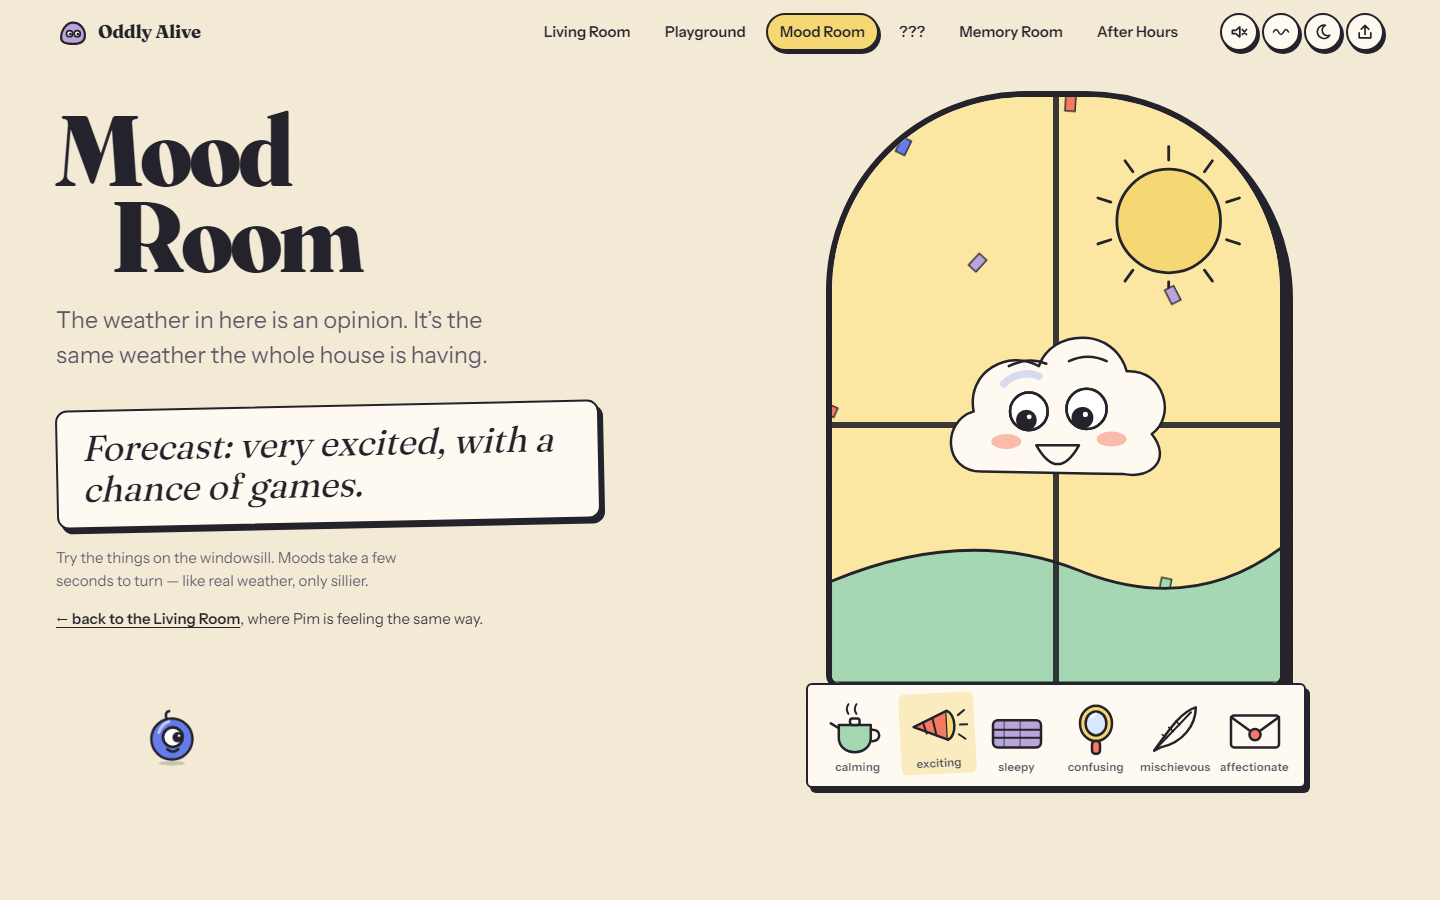
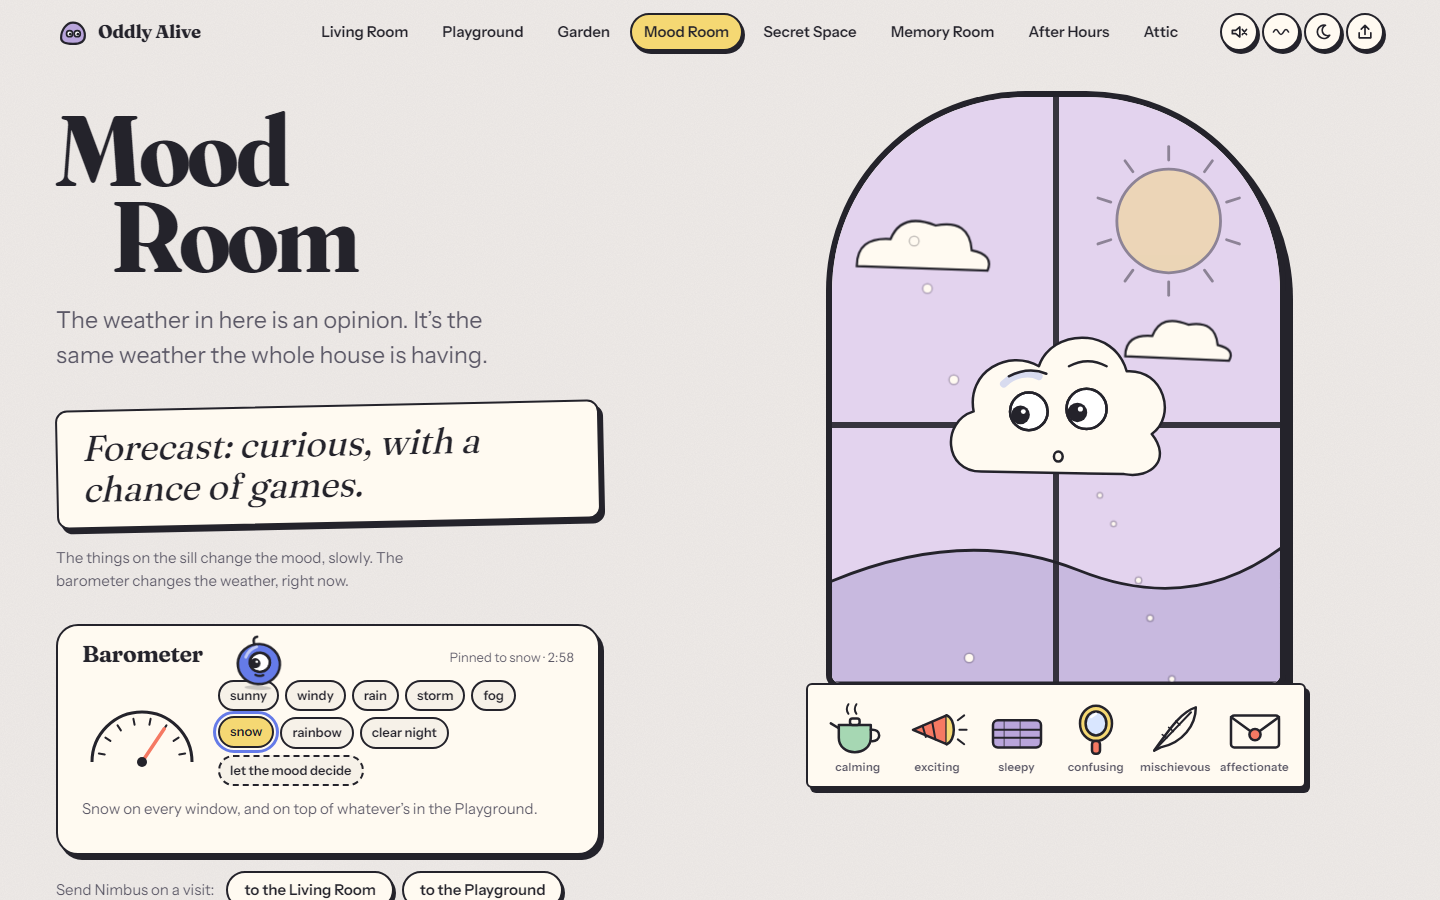
docs: Phase 2 release notes, screenshots and catalog
README describes eight rooms with new screenshots (Playground with Bip,
the Mood Room barometer, Garden, Attic), more things to try and the
keepsakes memory now holds. ARCHITECTURE, ROADMAP, DECISIONS (17–23),
PRODUCT_VISION and INTERACTION_CATALOG (INT-111 … INT-136) are updated.
The Mood Room shows snow under a hazy sky rather than full sun.

diff --git a/src/rooms/MoodRoom/MoodRoom.tsx b/src/rooms/MoodRoom/MoodRoom.tsx
@@ -31,7 +31,7 @@ const SCENERY: Record<HouseWeather, Mood> = {
   rain: 'annoyed',
   storm: 'annoyed',
   fog: 'shy',
-  snow: 'neutral',
+  snow: 'shy',
   rainbow: 'confused',
   night: 'sleepy',
 };

diff --git a/README.md b/README.md
@@ -4,14 +4,16 @@
 
 ![The Living Room](docs/screenshots/living-room.png)
 
-Oddly Alive is an interactive house of six rooms. The whole site behaves like
+Oddly Alive is an interactive house of eight rooms. The whole site behaves like
 one character with moods. It notices what you do on the page and answers
 through behavior:
 - title letters lean away from your pointer
 - a shy blob looks away if you stare
 - a lamp sulks if you flick it too often
 - a fern grows a leaf for every secret you find
-- the weather in the Mood Room *is* the house's mood
+- the weather follows the house's mood, and every room feels it
+- a robot next door plays volleyball with whatever you throw over the fence
+- Great-Aunt Pim left a letter in every room
 
 There is no goal, score, tutorial or chatbot. The activity is the website itself.
 
@@ -22,11 +24,13 @@ There is no goal, score, tutorial or chatbot. The activity is the website itself
 | | |
 | --- | --- |
 | **Living Room**: Pim the shy blob, Dot the follower, Lumen the lamp, Tick the clock, Ferdinand the fern, a dust bunny and a do-not-press button. Scroll down for how the house works, and a creaky floorboard. | ![Living Room on a phone](docs/screenshots/mobile-living-room.png) |
-| **Playground**: Matter.js shapes with faces. They have momentum, stack and collide, and the room opens with a ramp-and-domino chain reaction. | ![Playground](docs/screenshots/playground.png) |
-| **Mood Room**: a tall window whose weather is the shared mood. Six objects on the sill (tea, a party horn, a blanket, a mirror, a feather, a kind letter) nudge the whole house. | ![Mood Room](docs/screenshots/mood-room.png) |
+| **Playground**: Matter.js shapes with faces. They have momentum, stack and collide, and the room opens with a ramp-and-domino chain reaction. Throw something hard enough and it leaves the tray: over the fence, Bip runs under it and volleys it back, so you can keep a rally going. Field Notes keep score. | ![Playground](docs/screenshots/playground.png) |
+| **Mood Room**: a tall window onto the house weather. Six objects on the sill nudge the mood; a barometer pins the weather for a few minutes (rain on every window, wind in the Playground, snow on the shapes); Nimbus keeps an almanac and can be sent to rain on another room. | ![Mood Room](docs/screenshots/mood-room.png) |
 | **Secret Space**: a dark cabinet lit by a torch that follows your pointer. It shows every secret, with optional hints, plus a chest, a token puzzle and invisible ink. | ![Secret Space](docs/screenshots/secret-space.png) |
 | **Memory Room**: everything the house remembers about this browser: visits, secrets, favourite things to poke and a silly nickname. It also has Reset Session, Reset World and Forget me. | ![Memory Room](docs/screenshots/memory-room.png) |
 | **After Hours**: a rooftop at night with a moon that's too close, stars you can connect, a radio, and a porch light that attracts a moth. A manual night switch themes the whole house. | ![After Hours](docs/screenshots/after-hours.png) |
+| **Garden**: Great-Aunt Pim's seed tin and six plots. Plants grow in real time, a little while you're away, and the weather helps or stops them. Flowers end up in a vase in the Living Room; radishes end up in the Playground. | ![Garden](docs/screenshots/garden.png) |
+| **Attic**: up a ladder from the Living Room. Boxes nobody sorted, Marguerite the dress form and her hats, a gramophone, the House Diary (written from your own visits) and Great-Aunt Pim's trunk of letters. | ![Attic](docs/screenshots/attic.png) |
 
 You can share any scene as a link or as a generated postcard:
 
@@ -40,8 +44,12 @@ You can share any scene as a link or as a generated postcard:
 - Type `hello`, `wonk` or `dance` anywhere.
 - In the Mood Room, pour tea and then unfold the blanket.
 - Find something in one room, then go back to the Living Room and listen.
+- Throw a pebble hard over the fence in the Playground. Catch it when it comes back.
+- Pin rain in the Mood Room, then visit the Garden. Pin a rainbow and hold up the mirror.
+- Plant a moonflower and come back after dark.
+- Look up in the Living Room once you have found a few things.
 
-There are 21 secrets. None of them is required for anything.
+There are 43 secrets and eight letters. None of them is required for anything.
 
 ## How it works
 
@@ -86,6 +94,8 @@ More detail: [`ARCHITECTURE.md`](ARCHITECTURE.md), [`DECISIONS.md`](DECISIONS.md
   - per-object counts
   - a trust number
   - a few settings
+  - keepsakes: the garden, letters found, weather seen, personal bests, and a
+    short diary (40 lines at most) with the date of a few big moments
 
   The Memory Room shows the raw data and can delete it. Memory can also be
   switched off.

diff --git a/INTERACTION_CATALOG.md b/INTERACTION_CATALOG.md
@@ -17,7 +17,7 @@ its cooldown and priority. It also says what it changes: actor commands,
 from `run`; the scheduler calls it on finish, cancel and room exit. Keyboard
 or touch alternatives are noted where they differ from the pointer.
 
-**Totals:** 110 of 110 are built: 55 `verified`, 55 `implemented`, 0 `deferred`.
+**Totals:** 110 of 110 are built: 55 `verified`, 55 `implemented`, 0 `deferred`. Phase 2 adds INT-111 … INT-136 (24 `verified`, 2 `implemented`).
 That is 125 registered behaviors in all, plus presentation-level reactions
 in components. Several ideas are deliberately small, e.g. INT-033. The
 "Notes" column calls out anything that is lighter than its name suggests.
@@ -183,3 +183,36 @@ Paths are relative to `src/`. `T:` lists the tests.
 | INT-108 | Reproducible scene seed | verified | `app/share.ts` `sceneVariant` | T: `share.test.ts`, E2E |
 | INT-109 | Share a visual arrangement | verified | `rooms/Playground/share.ts` | T: `Playground.test.tsx` |
 | INT-110 | Copyable scene link, no accounts | verified | `components/ShareSheet.tsx` | T: E2E share-link test |
+
+## K. Phase 2: weather, garden, attic, letters, volleyball
+
+Added in Phase 2 (`PHASE_2_PLAN.md`). Same legend as above.
+
+| ID | Behavior | Status | Where | Evidence / notes |
+| --- | --- | --- | --- | --- |
+| INT-111 | Hard throws leave the tray (count drops) | verified | `Playground.tsx` `throwOut`, `flight.ts` | T: `physics.test.ts`, `flight.test.ts`, E2E volleyball |
+| INT-112 | Bip runs under a throw and volleys it back | verified | `NextDoor.tsx`, `flight.ts` `predictHit` | T: `flight.test.ts`, E2E volleyball |
+| INT-113 | Rally: catch the return before it lands | implemented | `Playground.tsx` `checkRallyBall`, floaty ball | Rally of 2 reached in automated runs |
+| INT-114 | Throw straight up still arcs over to Bip | verified | `flight.ts` `throwToYard` | T: `flight.test.ts` |
+| INT-115 | House weather follows mood or a pin | verified | `engine/weather.ts`, `app/weatherSync.ts` | T: `weather.test.ts`, `weatherSync.test.tsx` |
+| INT-116 | Barometer pins weather; Nimbus refuses once when grumpy | verified | `MoodRoom/Barometer.tsx` | T: `MoodRoom.test.tsx` |
+| INT-117 | Almanac collects every weather seen | verified | `MoodRoom/Almanac.tsx`, keepsakes | T: `MoodRoom.test.tsx` |
+| INT-118 | Send Nimbus to rain on another room | verified | `components/NimbusVisitor.tsx` | T: `MoodRoom.test.tsx` |
+| INT-119 | Weather in the Playground (wind, slippery rain, snow caps, thunder) | verified | `physics.ts` `setEnvironment` | T: `physics.test.ts` |
+| INT-120 | Living Room window shows the weather; cast remarks | implemented | `LivingRoom/HouseWindow.tsx`, `living.weather.remark` | |
+| INT-121 | Garden grows in real time and while away | verified | `Garden/growth.ts` | T: `growth.test.ts`, `Garden.test.tsx` |
+| INT-122 | Moonflower only grows at night | verified | `growth.ts` `rate` | T: `growth.test.ts` |
+| INT-123 | Flowers go to the Living Room vase | verified | `Garden.tsx`, `HouseWindow.tsx` | T: `Garden.test.tsx`, `combos.test.ts` |
+| INT-124 | Radishes travel to the Playground | verified | `Garden.tsx`, Playground spawn | T: `Garden.test.tsx`, `combos.test.ts` |
+| INT-125 | Ceiling cord drops the attic ladder | verified | `LivingRoom/PullCord.tsx` | T: `Attic.test.tsx` |
+| INT-126 | Boxes, hats and Marguerite | verified | `Attic/Attic.tsx`, `Marguerite.tsx` | T: `Attic.test.tsx` |
+| INT-127 | House Diary written from this browser | verified | `Attic/Diary.tsx`, keepsakes `diary` | T: `Attic.test.tsx`, `keepsakes.test.ts` |
+| INT-128 | Gramophone waltz (opt-in sound) | verified | `engine/audio.ts` `waltz` | T: `Attic.test.tsx` (discovery) |
+| INT-129 | Eight letters, one per room | verified | `content/letters.ts`, `app/letters.ts` | T: `letters.test.tsx` |
+| INT-130 | Trunk reads letters, hints at missing ones | verified | `Attic/Trunk.tsx` | T: `letters.test.tsx` |
+| INT-131 | Rooftop finale after all letters | verified | `AfterHours/RooftopParty.tsx` | T: `letters.test.tsx` |
+| INT-132 | Visit-shaped discoveries (night owl, tourist, homebody) | verified | `app/watchers.ts` | T: `watchers.test.ts` |
+| INT-133 | Patient / Gentle Hands | verified | `character.ts` `idle.long`, `living.ts` `pim.gentle` | T: `world.test.ts`, `SecretSpace.test.tsx` |
+| INT-134 | Layered hints, cabinet by room | verified | `content/secrets.ts` `after`, `SecretSpace.tsx` | T: `SecretSpace.test.tsx` |
+| INT-135 | Rooms notice each other (vase, radish, Dot on weather) | verified | `behaviors/combos.ts` | T: `combos.test.ts` |
+| INT-136 | Copy lint keeps the voice human | verified | `content/__tests__/copy.test.ts`, `VOICE.md` | T: `copy.test.ts` |

diff --git a/PHASE_2_PLAN.md b/PHASE_2_PLAN.md
@@ -312,6 +312,6 @@ cross-room, Marguerite's 4th hat, Tourist/Homebody discoveries.
 | 7 | done | Garden: `growth.ts` (pure, real-time + away growth, weather rates, moonflower night-only), seed tin (5 packets in Great-Aunt Pim’s hand) + watering can, 6 plots in 3 beds, SVG stages, Bip over the fence, Inch commuting. Harvest: flowers → Living Room windowsill vase (persisted), radishes → Playground (new `radish` shape, appended to SHAPE_KINDS). Discoveries: Green Thumb, Came Back For It, Night Shift, Full Bloom, Root Vegetable Sports. Snails cut. |
 | 8 | done | Living Room pull-cord (after 3 discoveries or 5 min; never a gate) drops a ladder → Attic. Attic: dim warm room (dark nav), round window with house weather, six boxes (4 hats, shoe, dust bunnies), Marguerite the dress form + hats (persisted), House Diary (paged, human dates, honest note), gramophone (original synth waltz), trunk placeholder for letters. Discoveries: Up the Ladder, Dress Rehearsal, Needle Drop, Dear Diary. Cross-room hum cut. |
 | 9 | done | Eight letters in Great-Aunt Pim’s voice (`content/letters.ts`), `app/letters.ts` findLetter (keepsake, diary, toast, discoveries). Triggers: portrait after the keyhole; rally of 5; mirror under a rainbow; second look in the chest; third visit (Memory Room); constellation with the radio on; moonflower harvest; last attic box. Trunk reads them and hints at missing ones; LetterToast (bottom right). Finale: rooftop party in After Hours + Great-Aunt smiles for good in the Living Room. Discoveries: Correspondent, The Whole Story, Family Reunion. |
-| 10 | done | Six discoveries: Patient (Living Room nods off), Gentle Hands (10 hovers, no pokes → Pim tells a secret), Night Owl (00–04 local), Tourist (every known room in 90 s), Homebody (5 min in one room), Puddle Jumper (volley in rain). `app/watchers.ts`. Layered hints (`after`) on 11 deeper secrets; cabinet grouped into one shelf per room with counts. Living letter now needs the key found (it was stepping on the keyhole moment). Found and fixed via e2e: Bip could miss on slow frames (hit check now per 16 ms slice) and could never reach a ball resting by the net. 45 secrets total. |
+| 10 | done | Six discoveries: Patient (Living Room nods off), Gentle Hands (10 hovers, no pokes → Pim tells a secret), Night Owl (00–04 local), Tourist (every known room in 90 s), Homebody (5 min in one room), Puddle Jumper (volley in rain). `app/watchers.ts`. Layered hints (`after`) on 11 deeper secrets; cabinet grouped into one shelf per room with counts. Living letter now needs the key found (it was stepping on the keyhole moment). Found and fixed via e2e: Bip could miss on slow frames (hit check now per 16 ms slice) and could never reach a ball resting by the net. 43 secrets total. |
 | 11 | done | Glue: garden flowers noticed in the Living Room (Ferdinand + Pim, via `living.vaseNew`), radishes greeted by Dot in the Playground, Dot’s weather opinions (Playground, Mood Room); existing gossip already covers discoveries in the new rooms. Reduced motion: global rule + per-component rules cover every new animation. Follow-up noted: Playground.tsx is ~840 lines; extracting the volleyball loop into a hook is a safe next refactor (not done here to avoid churn before release). |
-| 12 | todo | |
+| 12 | done | Docs: README (eight rooms, new screenshots for Playground, Mood Room, Garden, Attic; things to try; privacy lists keepsakes), ARCHITECTURE (Phase 2 modules), ROADMAP (Phase 2 table), DECISIONS 17–23, INTERACTION_CATALOG INT-111…136, PRODUCT_VISION room count. Final: 208 unit tests, 43 e2e (desktop + mobile, a11y, perf) green; production build OK. Not pushed: `phase-2` is ready for the owner to review and merge. |

diff --git a/DECISIONS.md b/DECISIONS.md
@@ -46,3 +46,30 @@ Short architecture/design decision log. Newest at the bottom.
     that spec (its screencast alone halved the frame rate).
 16. **Deployment via a `gh-pages` branch**, built with `BASE_PATH`. Hash
     routing means no SPA rewrites are needed.
+
+## Phase 2
+
+17. **Weather is derived, not stored.** It follows the mood unless the Mood
+    Room barometer pins it for three minutes. Rain and snow only come from a
+    pin, which gives the barometer a reason to exist.
+18. **Flights outside the trays are hand-integrated, not Matter.** A thrown
+    shape leaves the physics world and flies on a small, tested integrator
+    (`flight.ts`) that Bip also uses to predict where it will come down;
+    it rejoins Matter when it lands back in the tray. Sub-stepping keeps
+    slow frames from tunnelling through the net or Bip's reach.
+19. **Keepsakes are the only new persistence.** Memory v3 adds one validated
+    `world` section (garden, letters, almanac, a 40-line diary, personal
+    bests, attic) with v1/v2 migration. Reset World tidies garden beds and
+    attic dress-up; letters, almanac, diary and bests stay.
+20. **The garden catches up on the way in.** Growth is a pure function of
+    elapsed time; time away is applied once when the Garden opens, at half
+    speed and capped, so a return visit has a payoff without a timer
+    running in the background.
+21. **Nothing new is gated.** The Attic is unlisted until its cord is pulled,
+    but its address always works; the cord appears after three discoveries
+    or five minutes.
+22. **The voice is tested where it can be.** `copy.test.ts` rejects formula
+    sentences, banned words, long bubbles, em-dash habits and duplicates;
+    `VOICE.md` covers the rest.
+23. **Discoveries are a cabinet, not a checklist.** Deeper secrets keep their
+    hint folded until a related find; shelves are grouped by room.

diff --git a/ARCHITECTURE.md b/ARCHITECTURE.md
@@ -121,6 +121,18 @@ implementation:
 | Line variety | `behaviors/helpers.ts` `pickLine` | Characters don't repeat a line while fresher ones exist. |
 | Loading | `app/App.tsx` | Rooms are code-split, then prefetched when idle (physics last). |
 
+### Phase 2 additions
+
+| Area | Module | Notes |
+| --- | --- | --- |
+| Weather | `engine/weather.ts`, `app/weatherSync.ts`, `components/WeatherLayer.tsx` | Mood → weather map plus a 3-minute pin; `WEATHER_CHANGED`; `html[data-weather]`; CSS-only particles. |
+| Keepsakes | `state/keepsakes.ts` | Memory v3 `world`: garden, letters, almanac, diary, records, attic. |
+| Flights | `rooms/Playground/flight.ts` | Ballistics between the trays, Bip's landing prediction, lobs. |
+| Garden | `rooms/Garden/growth.ts` | Pure growth model (weather rates, away catch-up). |
+| Letters | `content/letters.ts`, `app/letters.ts` | `findLetter` keeps, notes, announces; finale in After Hours. |
+| Watchers | `app/watchers.ts` | Night Owl, Tourist, Homebody. |
+| Voice | `VOICE.md`, `content/__tests__/copy.test.ts` | |
+
 Behavior files: `character.ts` (moods, idle, tab return), `living.ts`,
 `playground.ts`, `mood.ts`, `secret.ts`, `rare.ts`, `memory.ts`,
 `night.ts`, `combos.ts` (cross-room chains and multi-character gags).

diff --git a/ROADMAP.md b/ROADMAP.md
@@ -21,6 +21,24 @@ Phase numbers follow the master plan (`oddly-alive-master-plan.txt`).
 | 14 | QA, E2E, accessibility, performance | done |
 | 15 | README, deployment | done |
 
+## Phase 2 — "The House Has a Story"
+
+Planned and tracked in `PHASE_2_PLAN.md` (steps, branches, progress log).
+
+| Step | Scope | Status |
+| --- | --- | --- |
+| 0 | Playground volleyball with Bip, Field Notes, refresh fix, clearer clicks | done |
+| 1–2 | Voice guide (`VOICE.md`), copy lint, copy pass | done |
+| 3 | Memory schema v3 keepsakes | done |
+| 4–5 | House-wide weather; Mood Room barometer, almanac, Nimbus visits | done |
+| 6 | Navigation for eight rooms | done |
+| 7 | The Garden | done |
+| 8 | The Attic | done |
+| 9 | Great-Aunt Pim's letters and the rooftop finale | done |
+| 10 | Deeper discoveries, layered hints, cabinet by room | done |
+| 11 | Glue between rooms | done |
+| 12 | QA and docs | done |
+
 ## Phase 1 implementation plan
 
 1. `npm create vite` equivalent by hand (React + TS), strict `tsconfig`.

diff --git a/PRODUCT_VISION.md b/PRODUCT_VISION.md
@@ -5,7 +5,7 @@
 
 ## What it is
 
-Oddly Alive is a small interactive world built out of a website. Six rooms of one
+Oddly Alive is a small interactive world built out of a website. Eight rooms of one
 slightly too-awake house share a single, consistent fictional personality. The
 house notices what you do *inside the page* — where your pointer goes, what you
 click, how fast you scroll, when you wander off — and it answers through
